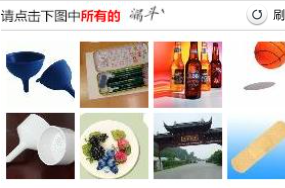
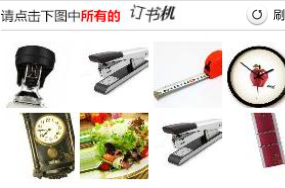
解决了滑块定位失败的bug

diff --git a/第七章：动态加载数据处理/07.基于selenium爬取12306.py b/第七章：动态加载数据处理/07.基于selenium爬取12306.py
@@ -60,25 +60,29 @@ if __name__ == "__main__":
     for pic_num in coord_list:
         x = int(pic_num[0])
         y = int(pic_num[1])
-        print(str(len(coord_list)))
         action.move_to_element_with_offset(img, x, y).click()
     action.perform()
 
 
     # 点击立即登录
     login_btn.click()
+    time.sleep(3)
+
+    # 防止12306禁止selenium
+    script = 'Object.defineProperty(navigator,"webdriver",{get:()=>undefined,});'
+    bro.execute_script(script)
 
     # 定位并点击滑块标签
-
-    drag_s = bro.find_element_by_id('nc_1__n1z')
-    drag_length = bro.find_element_by_id('nc-lang-cnt')
-    length = drag_length.value_of_css_property('width')
-    action.click_and_hold(drag_s)
+    action.reset_actions()
+    span = bro.find_element_by_xpath('//*[@id="nc_1_n1z"]')
+    action.click_and_hold(span)
 
     # 滑动滑块并释放动作
     # 问题：尚未解决滑块问题
-    action.move_by_offset(length, 0)
-    action.release(drag_s)
+
+    action.move_by_offset(350, 0).perform()
+    time.sleep(1)
+    action.release(span)
 
 
     bro.quit()
